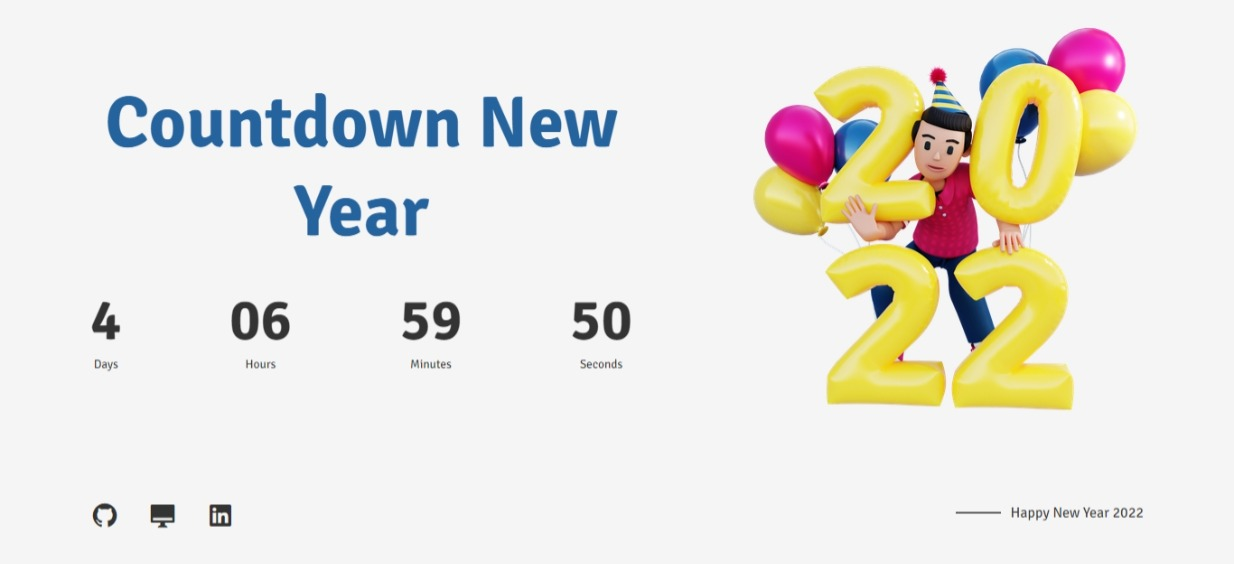
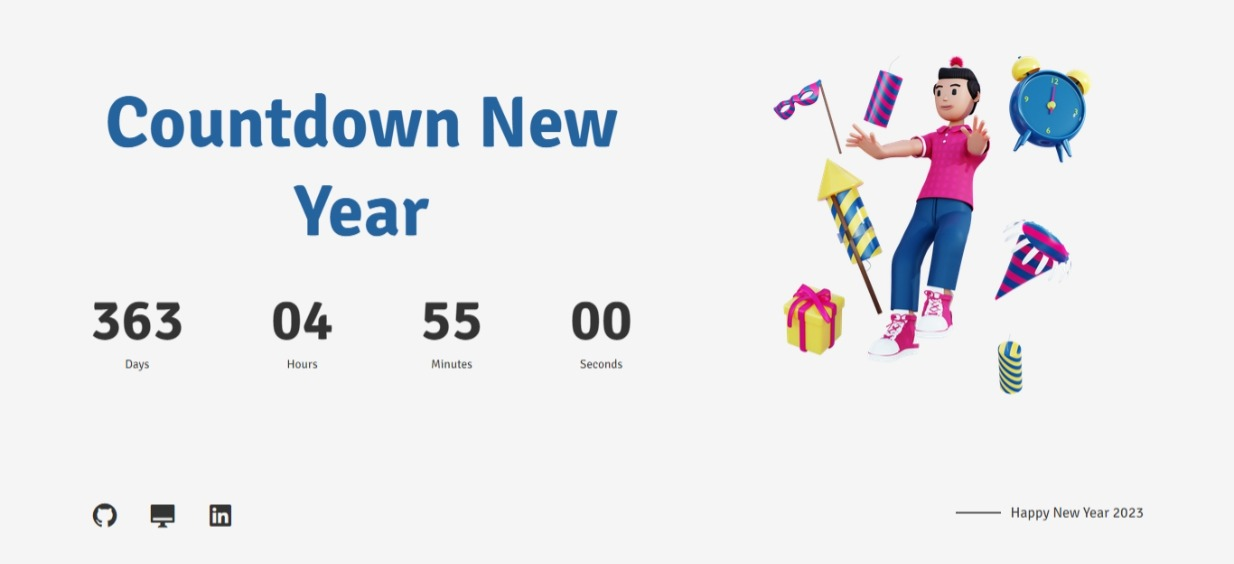
Changed img e date

diff --git a/index.html b/index.html
@@ -48,7 +48,7 @@
             </div>
 
             <div class="image-home">
-                <img src="img/happy-new-year-2022.webp" alt="">
+                <img src="img/new-year-time-4542074-3773571.webp" alt="">
             </div>
 
         </main>
@@ -61,7 +61,7 @@
             </ul>
 
             <div class="footer-text">
-                <p>Happy New Year 2022</p>
+                <p>Happy New Year 2023</p>
             </div>
         </div>
     

diff --git a/css/styles.css b/css/styles.css
@@ -77,6 +77,8 @@ main {
     color: #333;
 }
 
+
+
 .footer {
     position: absolute;
     bottom: 0;
